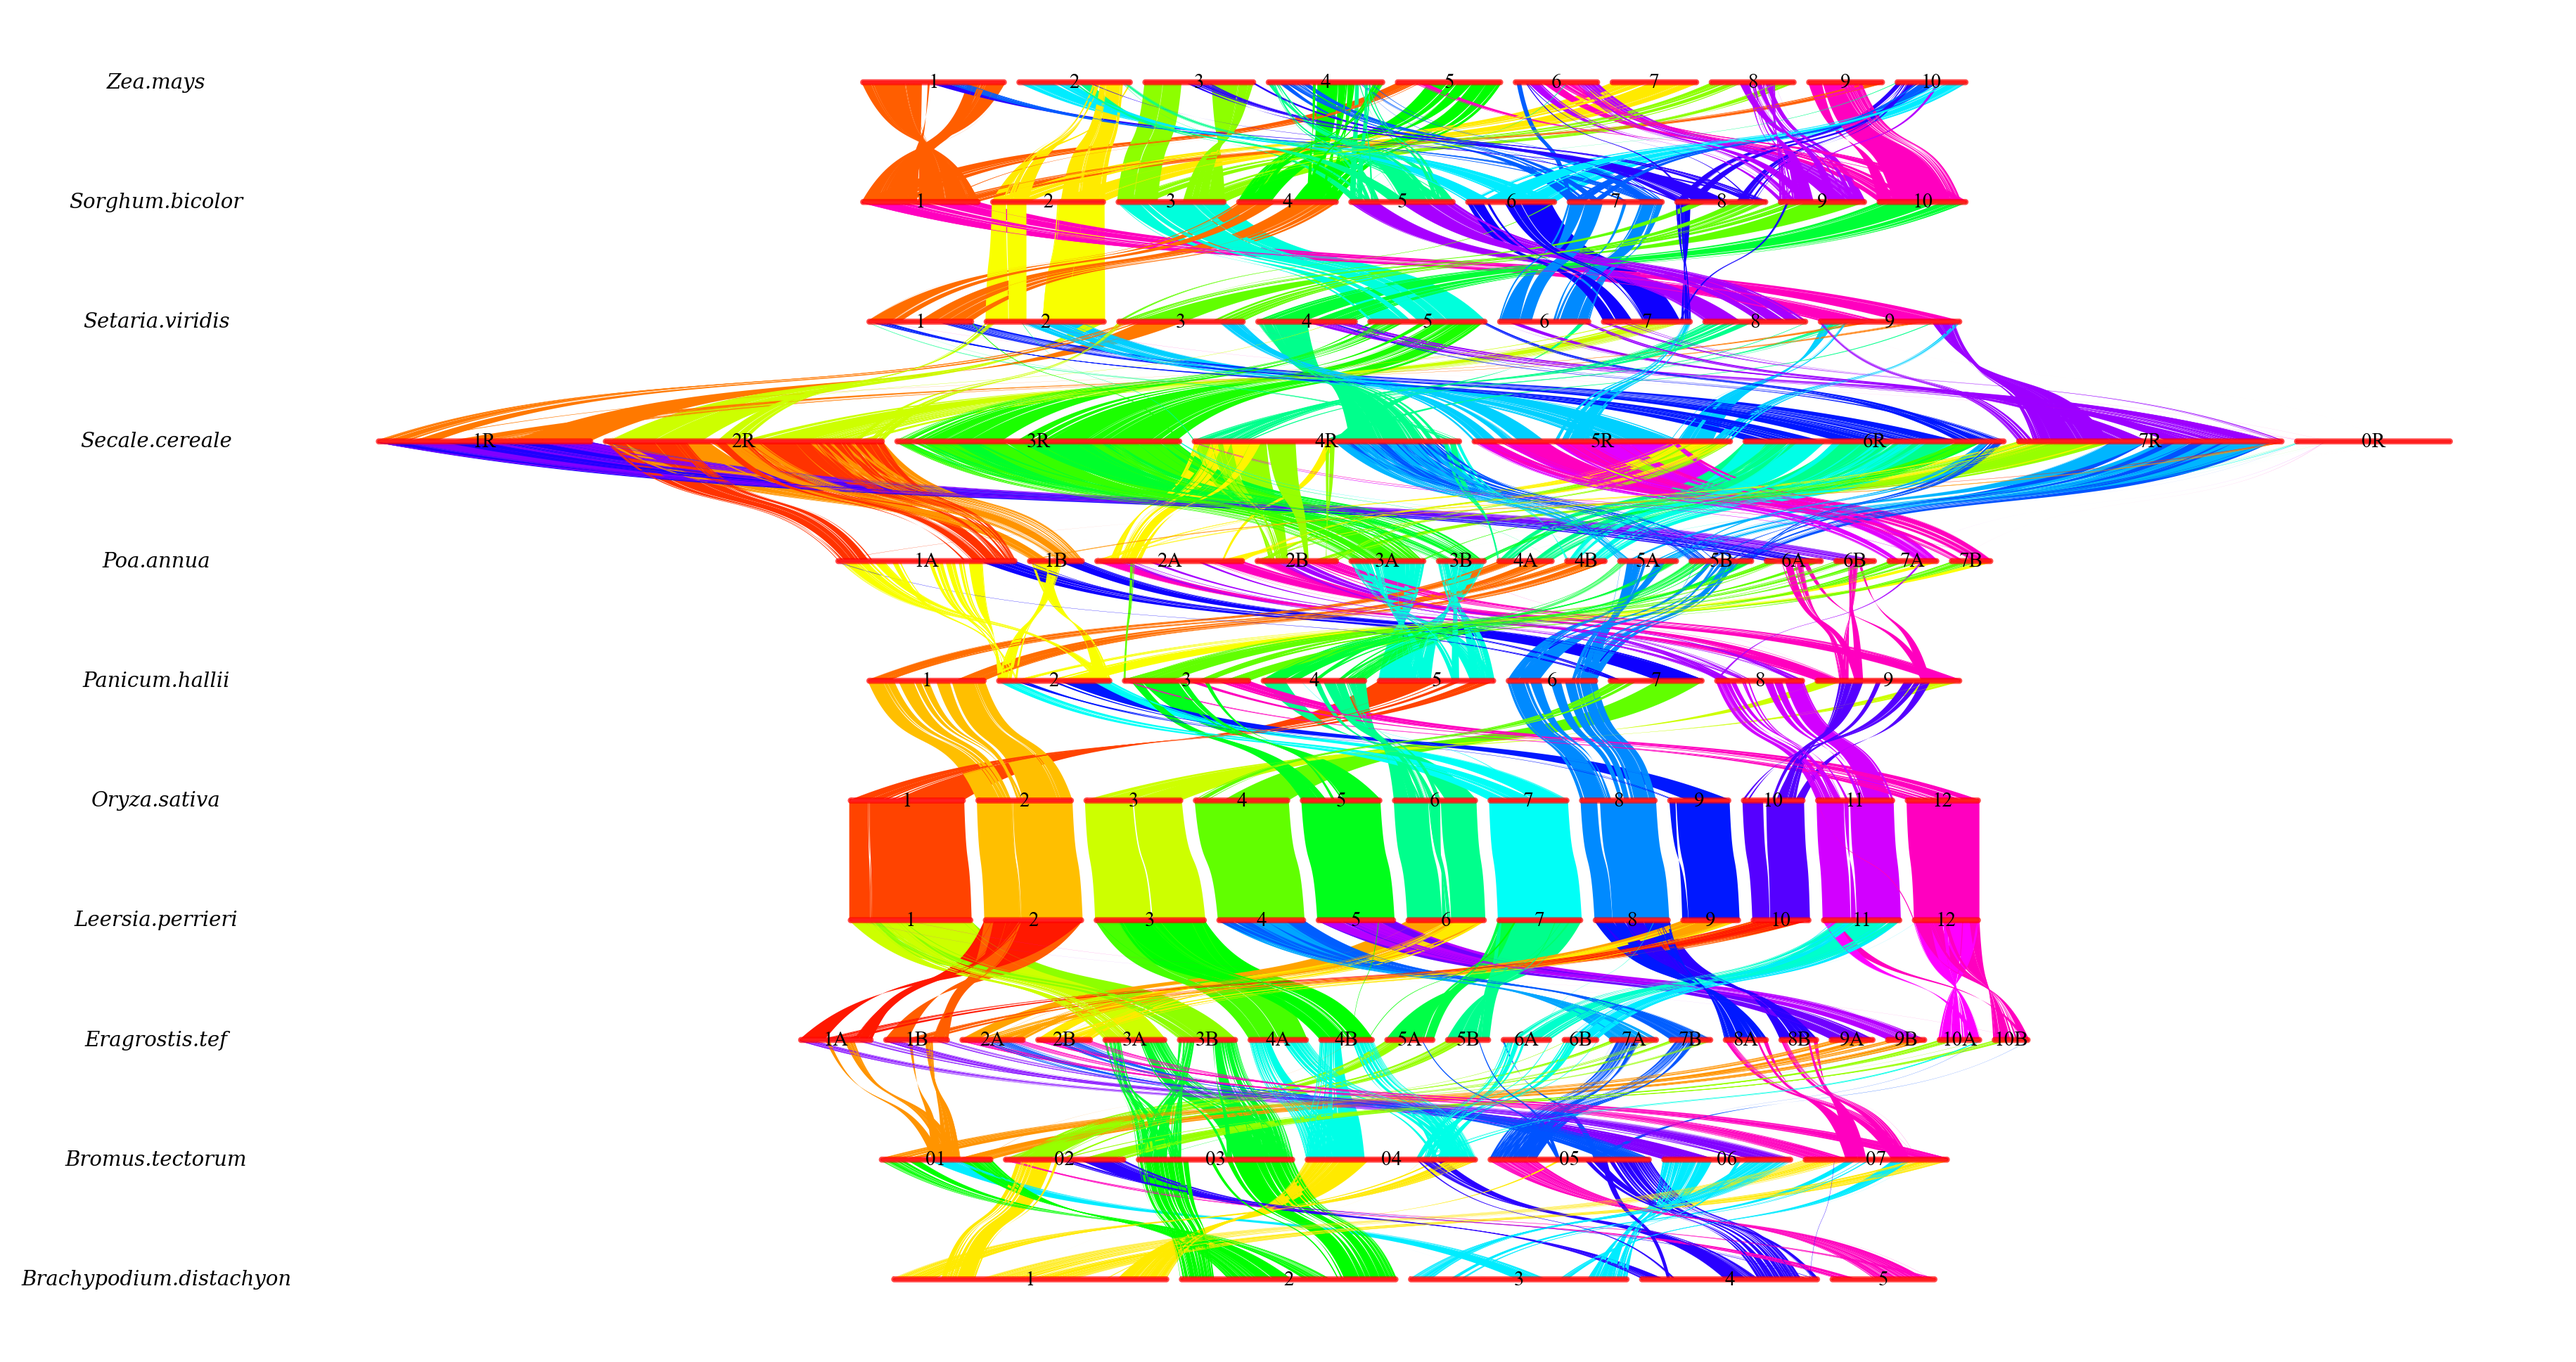
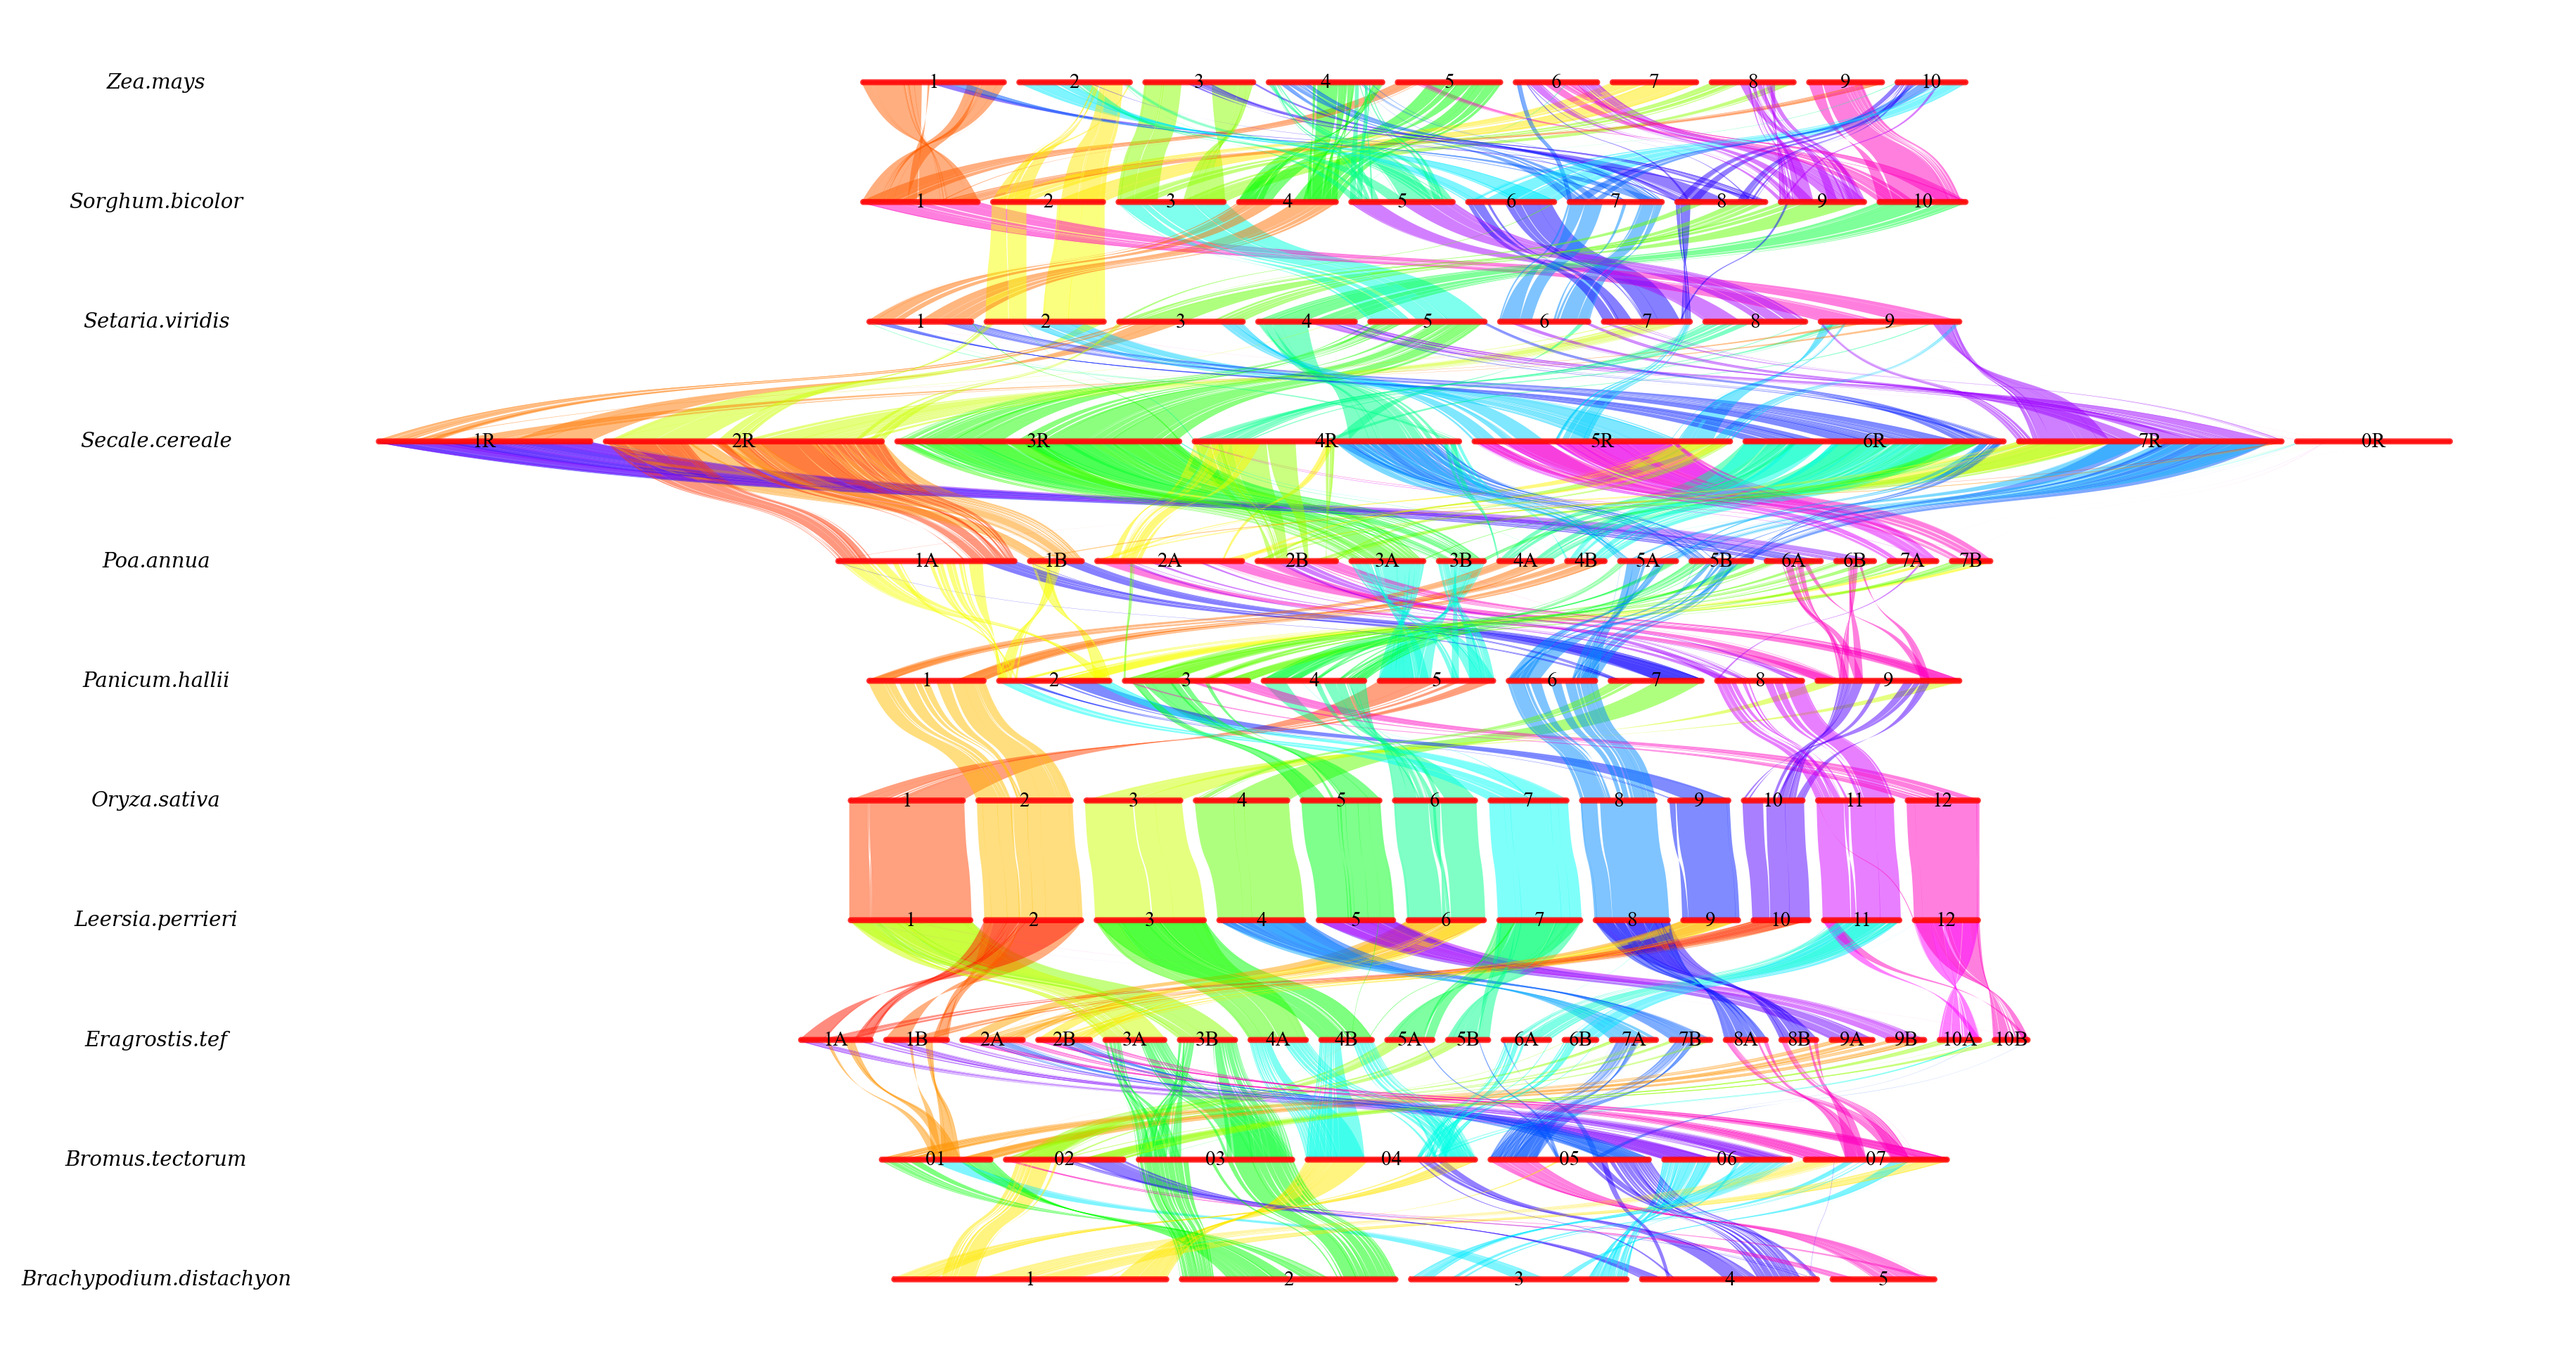
vis

Changed region(s): [[0.1556, 0.062, 0.9025, 0.9602]]

diff --git a/quota_anchor/lib/line.py b/quota_anchor/lib/line.py
@@ -339,7 +339,7 @@ class Line:
             start_x = start_list[i] / chr_plus_gap_length
             end_x = end_list[i] / chr_plus_gap_length
             x, y = self.plot_line_chr(start_x, end_x, CAP_DIAMETER, height)
-            plt.fill(x, y, facecolor=chr_color_dict[sp_name], alpha=0.7, edgecolor=chr_color_dict[sp_name], linewidth=1, zorder=2)
+            plt.fill(x, y, facecolor=chr_color_dict[sp_name], alpha=0.8, edgecolor=chr_color_dict[sp_name], linewidth=1, zorder=2)
             label_x = (start_x + end_x) / 2
             label_y = height + CAP_DIAMETER / 2
             text_chr = self.delete_prefix(chr_list[i], sp_name, strip_chr_abbr)
@@ -382,7 +382,7 @@ class Line:
         judge_fake_query_start_x, judge_fake_query_end_x = self.get_judge_se(cap_judge_query_chr, query_chr)
         judge_fake_ref_start_x, judge_fake_ref_end_x = self.get_judge_se(cap_judge_ref_chr, ref_chr)
         x, y = self.plot_collinearity_region(pos1_coord_x, pos2_coord_x, pos3_coord_x, pos4_coord_x, query_height, ref_height, judge_fake_query_start_x, judge_fake_query_end_x, judge_fake_ref_start_x, judge_fake_ref_end_x)
-        plt.fill(x, y, facecolor=color, alpha=1, zorder=1.5)
+        plt.fill(x, y, facecolor=color, alpha=0.5, zorder=1.5)
         i += 1
         return i
 

diff --git a/README.md b/README.md
@@ -235,7 +235,7 @@ quota_Anchor circle -i sb_sb.collinearity -o sb_sb.circle.png --overwrite -r ../
 1. Visualization of syntenic pairs of two species
   
     ```command
-    quota_Anchor line -i sb_zm.collinearity -o sb_zm.line.png -l sorghum.length.txt,maize.length.txt -n "Sorghum bicolor,Zea mays" --overwrite  
+    quota_Anchor line -i sb_zm.collinearity -o sb_zm.line.png -l sorghum.length.txt,maize.length.txt -n "Sorghum bicolor,Zea mays" --overwrite -gs "loose" -fs "7,14" --actual_len -sc "red"
     ```
 
     <p align="center">

diff --git a/README_zh.md b/README_zh.md
@@ -228,7 +228,7 @@ quota_Anchor circle -i sb_sb.collinearity -o sb_sb.circle.png --overwrite -r ../
 1. 两物种共线性基因对可视化
   
     ```command
-    quota_Anchor line -i sb_zm.collinearity -o sb_zm.line.png -l sorghum.length.txt,maize.length.txt -n "Sorghum bicolor,Zea mays" --overwrite  
+    quota_Anchor line -i sb_zm.collinearity -o sb_zm.line.png -l sorghum.length.txt,maize.length.txt -n "Sorghum bicolor,Zea mays" --overwrite -gs "loose" -fs "7,14" --actual_len -sc "red"
     ```
 
     <p align="center">
